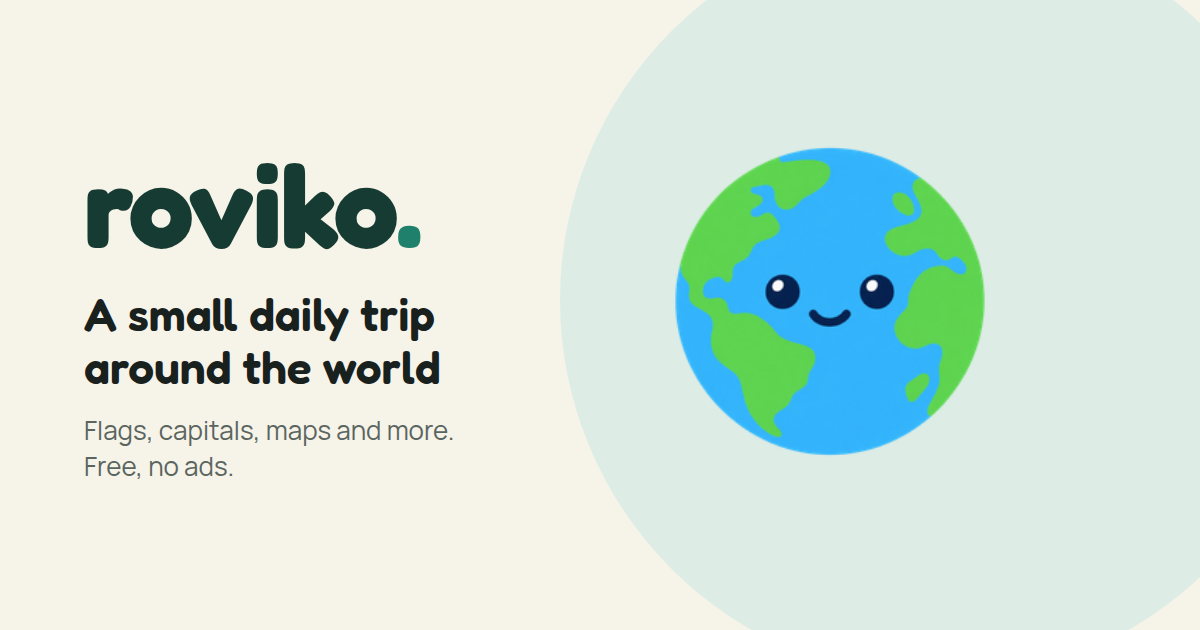
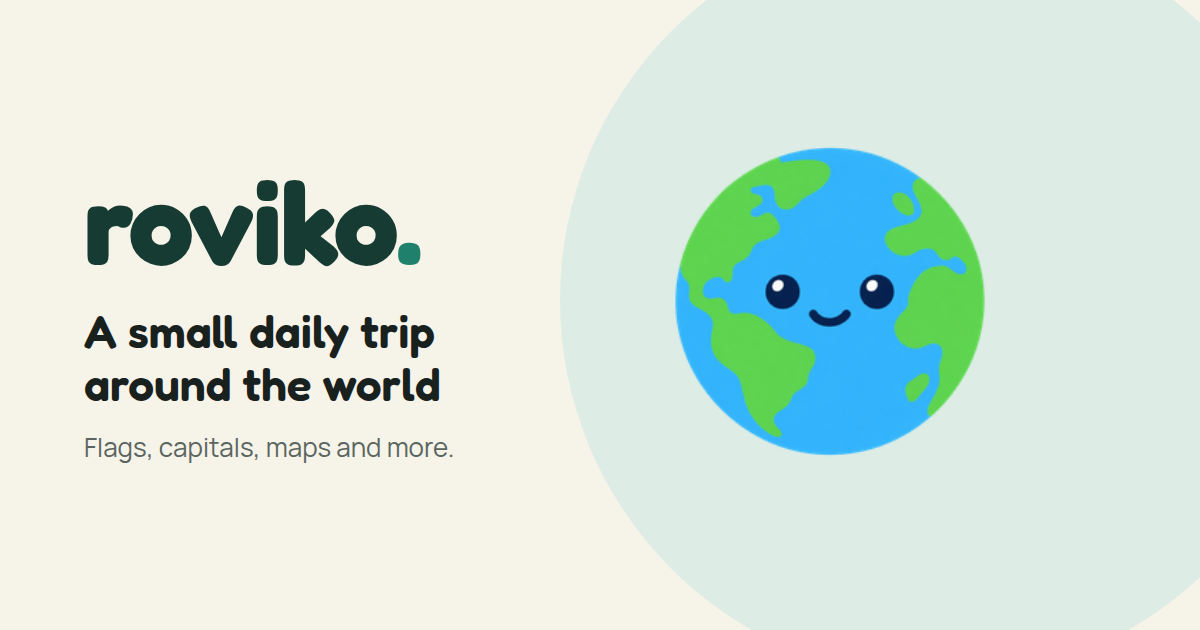
Stop promising "no ads" in store texts, share image and marketing docs
The owner plans to show ads. Store descriptions (NL/EN/ES), the share
image and marketing notes no longer say "no ads"; store-form docs note
that the current build has none and list what to update once ads ship.
Privacy statements describing the current build are unchanged.

Claude-Session: https://claude.ai/code/session_01SfFHtYc2VFGvwAVy25rhvs

Changed region(s): [[0.0617, 0.4524, 0.37, 0.6333], [0.0617, 0.2413, 0.37, 0.4222], [0.0617, 0.6635, 0.37, 0.754]]

diff --git a/social/roviko-posts/build/package.py b/social/roviko-posts/build/package.py
@@ -53,4 +53,6 @@ if __name__ == '__main__':
             z.write(f, 'X/' + os.path.basename(f))
         z.write('x/POSTS.md', 'X/POSTS.md')
         z.write('README.md', 'README.md')
+        # Share image without "no ads" (replaces 01-logo/deelafbeelding-1200x630.png in the brand kit).
+        z.write('../../roviko/public/og/roviko-1200x630.png', 'Brand-kit-update/deelafbeelding-1200x630.png')
     print(out, sum(1 for _ in zipfile.ZipFile(out).namelist()), 'files')

diff --git a/roviko-app/store-listing.md b/roviko-app/store-listing.md
@@ -9,7 +9,7 @@ Alles hieronder klopt met de website (versie 1.19). De tekenlimieten staan erbij
 **Naam (max. 30):** Roviko – Aardrijkskunde quiz
 **Ondertitel iOS (max. 30):** Elke dag 6 wereldspellen
 **Promotietekst iOS (max. 170):** Een kleine dagelijkse wereldreis: de Dagelijkse Omweg en vijf korte spellen over landen, vlaggen en kaarten. Speel alleen, met vrienden of tegen de computer.
-**Korte beschrijving Google (max. 80):** Elke dag zes vrolijke aardrijkskundespellen. Gratis en zonder advertenties.
+**Korte beschrijving Google (max. 80):** Elke dag zes vrolijke aardrijkskundespellen. Gratis te spelen.
 
 **Beschrijving:**
 Maak elke dag een kleine reis rond de wereld! Roviko is een vrolijk aardrijkskundespel met elke dag zes korte spellen. Een paar nieuwsgierige minuten, een beetje meer wereld. Voor iedereen die nieuwsgierig is, van jong tot oud.
@@ -36,7 +36,7 @@ Zie welke vrienden online zijn en nodig ze met één tik uit in je kamer, of dee
 NOG MEER SPELEN
 Het mysterieland van de dag en klassiekers als vlaggen, hoofdsteden, kaarten, buurlanden en landen op grootte, op je eigen tempo.
 
-Gratis • Geen advertenties • Geen account nodig • Nederlands, Engels en Spaans • Licht en donker thema
+Gratis • Geen account nodig • Nederlands, Engels en Spaans • Licht en donker thema
 
 **Trefwoorden iOS (max. 100):** aardrijkskunde,vlaggen,hoofdsteden,landen,quiz,wereld,kaart,topografie,trivia,leren,dagelijks
 
@@ -45,7 +45,7 @@ Gratis • Geen advertenties • Geen account nodig • Nederlands, Engels en Sp
 **Name (max. 30):** Roviko – Geography Quiz
 **Subtitle (max. 30):** 6 world games every day
 **Promotional text (max. 170):** A small daily trip around the world: the Daily Detour plus five short games about countries, flags and maps. Play solo, with friends or vs the computer.
-**Short description (max. 80):** Six cheerful geography games every day. Free, with no ads.
+**Short description (max. 80):** Six cheerful geography games every day. Free to play.
 
 **Description:**
 Take a small trip around the world every day! Roviko is a cheerful geography game with six short games daily. A few curious minutes, a little more of the world. For curious minds of every age.
@@ -72,7 +72,7 @@ See which friends are online and invite them to your room in one tap, or share a
 EVEN MORE TO PLAY
 The mystery country of the day and classics like flags, capitals, maps, neighbours and country sizes, at your own pace.
 
-Free • No ads • No account needed • English, Dutch and Spanish • Light and dark mode
+Free • No account needed • English, Dutch and Spanish • Light and dark mode
 
 **Keywords (max. 100):** geography,flags,capitals,countries,quiz,world,map,trivia,learn,daily,puzzle
 
@@ -81,7 +81,7 @@ Free • No ads • No account needed • English, Dutch and Spanish • Light a
 **Nombre (máx. 30):** Roviko – Quiz de geografía
 **Subtítulo (máx. 30):** 6 juegos del mundo cada día
 **Texto promocional (máx. 170):** Un pequeño viaje diario por el mundo: el Desvío diario y cinco juegos cortos sobre países, banderas y mapas. Solo, con amigos o contra el ordenador.
-**Descripción corta (máx. 80):** Seis alegres juegos de geografía cada día. Gratis y sin anuncios.
+**Descripción corta (máx. 80):** Seis alegres juegos de geografía cada día. Gratis.
 
 **Descripción:**
 ¡Haz cada día un pequeño viaje por el mundo! Roviko es un alegre juego de geografía con seis juegos cortos al día. Unos minutos de curiosidad, un poco más de mundo.
@@ -105,14 +105,14 @@ Un sello por cada país que conoces (195 en total), sellos de conocimiento y 30 
 JUEGA CON AMIGOS
 Mira qué amigos están en línea e invítalos a tu sala con un toque, o comparte un código: hasta 12 jugadores por sala. Juega contra alguien al azar o contra el ordenador en fácil, medio o difícil.
 
-Gratis • Sin anuncios • Sin cuenta • Español, inglés y neerlandés • Modo claro y oscuro
+Gratis • Sin cuenta • Español, inglés y neerlandés • Modo claro y oscuro
 
 **Palabras clave (máx. 100):** geografía,banderas,capitales,países,quiz,mundo,mapa,trivia,aprender,diario
 
 ## Categorie en leeftijd
 
 - **Categorie:** Onderwijs (hoofdcategorie), Spellen → Trivia (extra)
-- **Leeftijd:** Apple 13+ (berekend door Apple; spelers zien namen van onbekende tegenstanders; namen worden gefilterd, melden en blokkeren kan). Google: vragenlijst invullen. Er is geen geweld, geen chat, geen aankopen en geen advertenties. Zie `roviko/docs/STORE_PRIVACY.md`.
+- **Leeftijd:** Apple 13+ (berekend door Apple; spelers zien namen van onbekende tegenstanders; namen worden gefilterd, melden en blokkeren kan). Google: vragenlijst invullen. Er is geen geweld, geen chat en geen aankopen. De huidige build heeft nog geen advertenties; zie de opmerking onder de privacytabel. Zie `roviko/docs/STORE_PRIVACY.md`.
 - **Privacybeleid-URL:** `https://roviko.app/privacy`
 - **Support-URL:** `https://roviko.app/` (of een e-mailadres voor support)
 
@@ -128,6 +128,8 @@ Gratis • Sin anuncios • Sin cuenta • Español, inglés y neerlandés • M
 | Gebruiksstatistieken | Alleen als de speler "Help Roviko verbeteren" aanzet; pseudoniem, zonder externe analysedienst | Analyse | Nee |
 | Advertentie-ID, locatie, contacten, foto's | Nee | – | – |
 
-Er zijn geen trackers of advertentie-SDK's. Gegevens gaan niet naar derden. Spelers kunnen hun gegevens downloaden en hun account verwijderen in de app.
+Er zijn (nog) geen trackers of advertentie-SDK's. Gegevens gaan niet naar derden. Spelers kunnen hun gegevens downloaden en hun account verwijderen in de app.
+
+> **Advertenties (september 2026):** de eigenaar wil advertenties gaan tonen. Beloof daarom nergens meer "geen advertenties". De huidige build bevat nog geen advertenties of advertentie-SDK. Zolang dat zo is, klopt "nee" in de formulieren hieronder. Zodra er advertenties in de app komen, moeten mee: dit formulier (advertenties: **ja**; advertentie-ID en gegevens die de advertentie-SDK deelt), het privacybeleid op roviko.app/privacy, de App Store-privacylabels, Google Play *Data safety* en *Bevat advertenties*, en de leeftijds- en doelgroepkeuze (voor kinderen onder 13 gelden strengere advertentieregels).
 
 > Controleer deze tabel vóór het indienen tegen het actuele privacybeleid op de site. Dit is een samenvatting van de code, geen juridisch advies.

diff --git a/roviko/docs/ROVIKO_MARKETING_BRIEF.md b/roviko/docs/ROVIKO_MARKETING_BRIEF.md
@@ -14,7 +14,7 @@
 - **Hero-tekst:** *"A small daily trip around the world."* / *"A few curious minutes. A little more of the world."*
 - **Afsluiter (in de app):** *"Stay curious. Play together."*
 - **Talen:** Engels, Nederlands, Spaans
-- **Prijs:** gratis. Geen betaalmuur, geen advertenties.
+- **Prijs:** gratis. Geen betaalmuur. Beloof geen "geen advertenties": er komen advertenties.
 - **Account:** niet nodig. *"No account needed. Just a curious mind."* Spelen kan als gast. Met een account bewaar je je voortgang en speel je met vrienden.
 
 ### Wat voor soort product is het?
@@ -44,7 +44,7 @@ Roviko voelt als **Wordle, maar dan voor de wereld**. Het is een klein dagelijks
 | **Dagelijkse puzzelaars (25–45)**, fans van Wordle, Connections en GeoGuessr | Een nieuw kort dagritueel om te delen |
 | **Reizigers & wereldliefhebbers** | Herken vlaggen, steden en landen van je volgende reis |
 | **Quizfans & vriendengroepen** | Live rooms met vrienden, tot 12 spelers |
-| **Ouders & gezinnen / leergierige tieners** | Leerzaam en veilig: geen advertenties, geen aankopen |
+| **Ouders & gezinnen / leergierige tieners** | Leerzaam en veilig: geen aankopen, bronnen bij elk getal |
 | **Mensen die "iets nuttigs" willen doen met 3 minuten** | In plaats van scrollen: even je hoofd trainen |
 
 ---
@@ -124,7 +124,7 @@ Elke dag speel je 5 spellen. Elk spel levert **max. 1.000 punten** op, dus **max
 ## 10. Unieke verkoopargumenten (USP's)
 
 1. **Een paar minuten per dag**, met een compleet wereldrondje in 5 mini-spellen.
-2. **Gratis, zonder advertenties en zonder account** om te beginnen.
+2. **Gratis en zonder account** om te beginnen.
 3. **Iedereen dezelfde puzzels**, dus je kunt je score echt vergelijken met vrienden.
 4. **Leerzaam en leuk:** vlaggen, hoofdsteden, kaarten en landenfeitjes.
 5. **Speel live met tot 12 vrienden** en zie wie er online is.
@@ -141,7 +141,7 @@ Elke dag speel je 5 spellen. Elk spel levert **max. 1.000 punten** op, dus **max
 - ❌ Niet zeggen dat het een officieel onderwijsprogramma is, of dat het is goedgekeurd door scholen of organisaties.
 - ❌ Geen spelmodi of functies die hierboven niet staan (bijv. geen chat, geen AR, geen offline-multiplayer).
 - ❌ Geen logo's of merken van anderen (Wordle, GeoGuessr enz.) in beeld. Een vergelijking in gesproken tekst ("zoals Wordle, maar…") kan, maar gebruik die met mate.
-- ✅ Wel toegestaan: "gratis", "geen account nodig", "elke dag nieuw", "5 spellen per dag", "speel met vrienden", "zonder advertenties".
+- ✅ Wel toegestaan: "gratis", "geen account nodig", "elke dag nieuw", "5 spellen per dag", "speel met vrienden". Niet: "zonder advertenties" of "geen ads" (er komen advertenties).
 
 ---
 
@@ -237,7 +237,7 @@ Motivatie: streak, streak-schild (per 7 speeldagen, max 2), 3 dagelijkse opdrach
 Mascotte: Roviko, een lachende cartoon-wereldbol die zegt hoeveel spellen je nog moet spelen
 Stijl: zacht klei-3D, crème #F6F3E9, bosgroen #163B32, merkgroen #1F806B, mint #DDEDE6, goud #F6B84B; fonts Fredoka + Manrope
 Toon: rustig, nieuwsgierig, warm, speels
-Prijs: gratis, geen advertenties, geen account nodig (gast-modus)
+Prijs: gratis, geen account nodig (gast-modus)
 Talen: EN / NL / ES
 CTA: "Speel gratis op roviko.app"
 NIET beweren: App Store/Play-download, gebruikersaantallen, reviews, geldprijzen, officiële onderwijsstatus

diff --git a/roviko-app/README.md b/roviko-app/README.md
@@ -69,7 +69,7 @@ Dit is de native app voor de App Store en Google Play, gebouwd met [Capacitor](h
    - Upload de screenshots uit `store/ios-iphone-6.9/` (1320×2868) en, omdat de app ook op iPad werkt, `store/ios-ipad-13/` (2064×2752). Het icoon van 1024 px staat in `store/app-store-icon-1024.png`.
 5. Test eerst via **TestFlight** en dien de app daarna in. De beoordeling duurt meestal 1–3 dagen.
 
-**Kinderen:** kies bij Apple **niet** de categorie "Kinderen". Die eist een ouderpoort voor elke externe link. Categorie *Onderwijs* of *Spellen → Trivia* met leeftijd 4+ is geschikt. Bij Google moet je bij *Doelgroep* kiezen. Kies je ook leeftijden onder 13, dan geldt het Families-beleid. Roviko heeft geen advertenties en geen trackers, dus dat is haalbaar, maar vul de formulieren zorgvuldig in.
+**Kinderen:** kies bij Apple **niet** de categorie "Kinderen". Die eist een ouderpoort voor elke externe link. Categorie *Onderwijs* of *Spellen → Trivia* met leeftijd 4+ is geschikt. Bij Google moet je bij *Doelgroep* kiezen. Kies je ook leeftijden onder 13, dan geldt het Families-beleid. Roviko heeft nu nog geen advertenties en geen trackers. Komen er advertenties, dan gelden onder 13 jaar strenge regels (Google Families-beleid, alleen gecertificeerde advertentienetwerken). Kies de doelgroep daarom bewust en vul de formulieren zorgvuldig in.
 
 ## Handige commando's
 

diff --git a/roviko/docs/STORE_PRIVACY.md b/roviko/docs/STORE_PRIVACY.md
@@ -52,7 +52,7 @@ Afgeleid uit de code van versie 1.20.0: `db/schema.ts`, `server/*.ts`, `server/t
 - **Geweld, seks, drugs, gokken, grof taalgebruik:** geen.
 - **Chat of vrije tekst tussen spelers:** nee. Wel ziet een speler de namen van medespelers en van willekeurige tegenstanders; die namen worden gefilterd.
 - **Spelers kunnen met elkaar spelen:** ja (kamers met code, willekeurige tegenstander). Melden en blokkeren is aanwezig.
-- **Aankopen of in-game valuta:** nee. **Advertenties:** nee.
+- **Aankopen of in-game valuta:** nee. **Advertenties:** nee, in de huidige build. De eigenaar wil advertenties gaan tonen; werk dan deze pagina, het privacybeleid en de store-formulieren bij (zie `roviko-app/store-listing.md`).
 - **Locatie delen:** nee.
 - **Onbeperkte webtoegang:** nee. Externe links (bronnen, licenties) openen buiten de app.
 - **Uitkomst bij Apple (1.0):** 13+, omdat "User-Generated Content" op Yes staat (spelersnamen), en "Contests" op Frequent. Niet verkocht in Afghanistan en Marokko (lokale regels), IARC volgens de vragenlijst, meestal 3 of 7. Kies bij Apple **niet** de categorie "Kinderen".

diff --git a/roviko/docs/DUOLINGO_ANALYSE.md b/roviko/docs/DUOLINGO_ANALYSE.md
@@ -45,7 +45,7 @@ Er is niets overgenomen: geen teksten, beelden, namen of vormgeving.
 2. **Weekcompetitie in kleine groepen.** De ranglijst uit 1.11 is wereldwijd. Voor kinderen is "#8 van 30 deze week" motiverender dan "#5.231 van 20.000". Dit vraagt server-werk: groepen van ongeveer 30 spelers en een wekelijkse reset. Doe dit pas als er genoeg dagelijkse spelers zijn.
 3. **Reeksen met vrienden.** Vriendschappen bestaan al. Een gedeelde reeks ("jullie spelen allebei elke dag") is een sterke sociale prikkel, maar vraagt server-opslag.
 4. **Een mascotte met emoties.** De tekstballon van Roviko reageert al (blij, of bezorgd bij een reeks in gevaar). Extra houdingen (juichen, slapen, bezorgd kijken) vragen nieuwe illustraties in de eigen Roviko-stijl.
-5. **Geen hartjes/levens of betaalde versnellers.** Die zijn bij Duolingo vooral bedoeld om geld te verdienen. Voor een kindvriendelijk spel zonder advertenties past dat niet.
+5. **Geen hartjes/levens of betaalde versnellers.** Die zijn bij Duolingo vooral bedoeld om geld te verdienen. Voor een kindvriendelijk spel past dat niet.
 
 ## Technisch
 

diff --git a/roviko/docs/GEOTRIVIA_ANALYSE.md b/roviko/docs/GEOTRIVIA_ANALYSE.md
@@ -59,7 +59,7 @@ Op volgorde van verwachte impact voor het terugkeren van spelers:
 6. **Spelers laten meebeslissen:** onderwerpen van de dag beoordelen met sterren, en een nieuw onderwerp voorstellen. Dat geeft betrokkenheid en gratis productfeedback.
 7. **Een eigen kleurenspel** als tegenhanger van GeoPaint, met een andere invalshoek. Bijvoorbeeld: "Welke kleur ontbreekt er in deze vlag?", met kleurvlakken om uit te kiezen in plaats van schuifjes. Dat is makkelijker voor kinderen.
 
-**Waar Roviko al sterker is dan Geotrivia:** geen advertenties, één duidelijke dagroute met voortgangsring, een mascotte, Nederlands en Engels, bronnen bij elk getal, samen spelen in kamers, en een native app met dagelijkse herinnering.
+**Waar Roviko al sterker is dan Geotrivia:** één duidelijke dagroute met voortgangsring, een mascotte, Nederlands en Engels, bronnen bij elk getal, samen spelen in kamers, en een native app met dagelijkse herinnering.
 
 ## Ronde 5: wat we visueel van Geotrivia leerden
 

diff --git a/roviko-app/LANCERING.md b/roviko-app/LANCERING.md
@@ -35,7 +35,7 @@ Deze checklist hoort bij versie 1.19 van de website. Wat klaarstaat, staat boven
    - Naam, korte en volledige beschrijving: `store-listing.md`.
    - Icoon 512 px, banner 1024×500 en telefoonscreenshots uit `store/`.
    - Categorie: *Onderwijs* (of *Spellen → Trivia*).
-   - Invullen: **Data safety** (tabel in `store-listing.md`), **inhoudsclassificatie** (geen geweld, geen chat, geen aankopen, geen advertenties), **doelgroep** en **advertenties: nee**.
+   - Invullen: **Data safety** (tabel in `store-listing.md`), **inhoudsclassificatie** (geen geweld, geen chat, geen aankopen), **doelgroep** en **advertenties** (nu nog *nee*; zodra er advertenties in de app zitten *ja*, zie de opmerking over advertenties in `store-listing.md`).
    - Privacybeleid-URL: `https://roviko.app/privacy`.
 5. **Upload** `app-release.aab` bij *Gesloten testen*, en na de testperiode bij *Productie*. Een beoordeling duurt meestal 1 tot 7 dagen.
 

diff --git a/roviko/docs/APP_REVIEW_NOTES.md b/roviko/docs/APP_REVIEW_NOTES.md
@@ -4,7 +4,7 @@ Copy the text below into the "Notes" field. It is in English because the reviewe
 
 ---
 
-Roviko is a daily geography game: every day there is a 20-question "Daily Detour" and five short puzzle games (Rank Radar, World Duel, Side by Side, Country Mosaic, Clue Trail) with points and a daily ranking, plus classic flag, capital and map games. It is free, has no ads and no in-app purchases.
+Roviko is a daily geography game: every day there is a 20-question "Daily Detour" and five short puzzle games (Rank Radar, World Duel, Side by Side, Country Mosaic, Clue Trail) with points and a daily ranking, plus classic flag, capital and map games. It is free and has no in-app purchases.
 
 **No login is needed.** The app creates a guest profile automatically. You can play everything as a guest. An account (email + password) is optional and only needed for the friends list.
 
